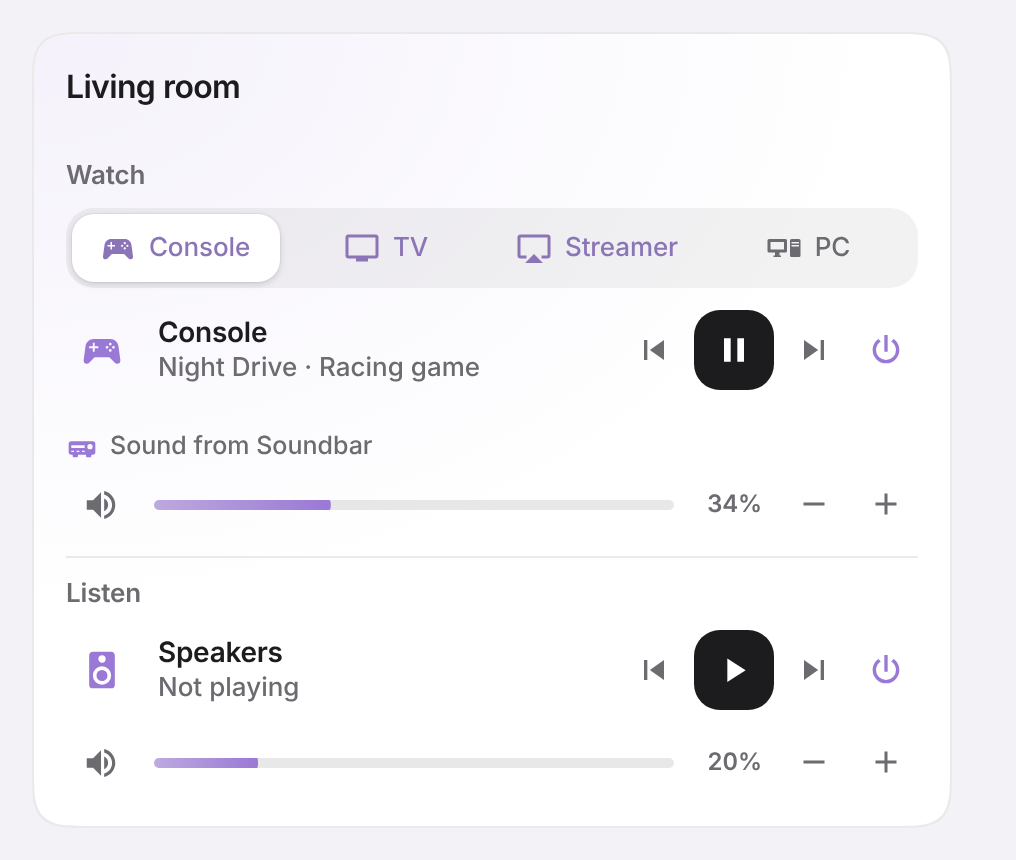
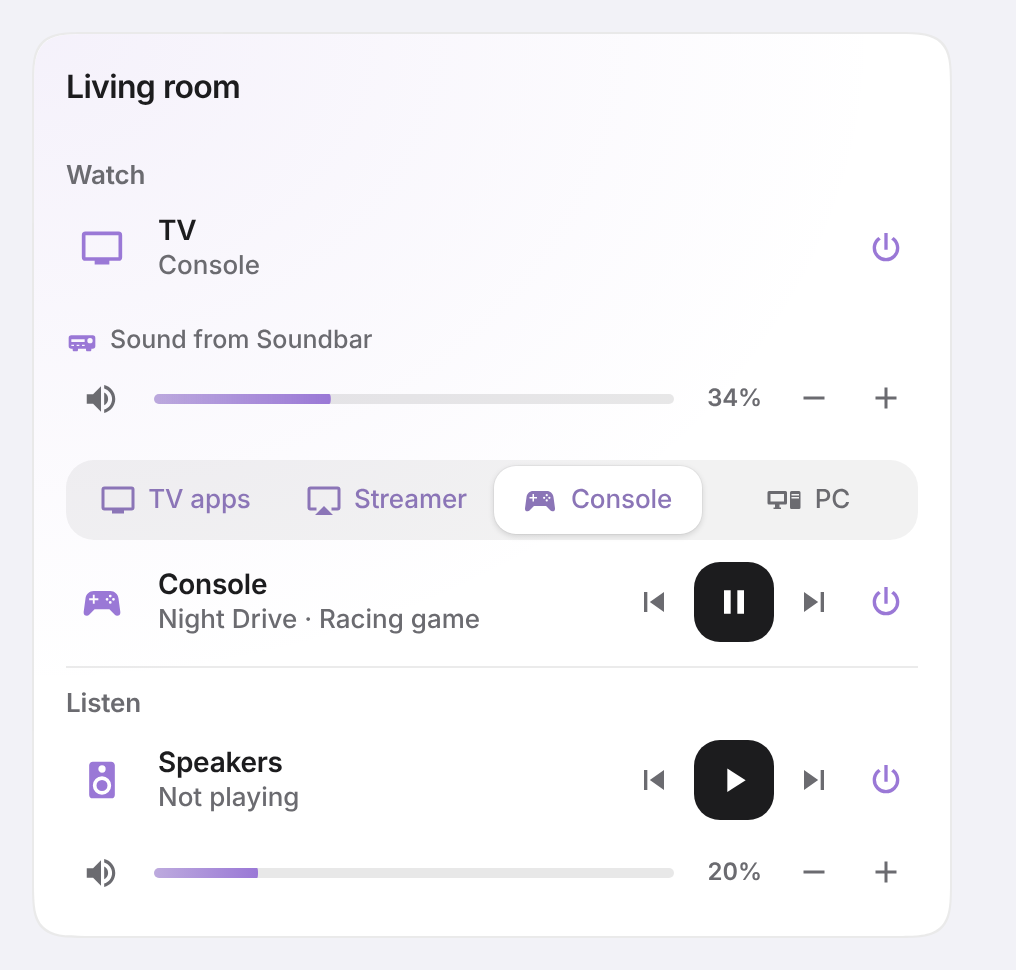
Media: the screen frames its inputs; inputs follow and switch the TV's input (0.20.2)
The TV's name, the input it is on and its power sit at the top with its sound and the one volume; the inputs follow (the TV itself as TV apps), then what the picked one plays. A source's input (HDMI 2) makes the picker follow the TV and picking it switches the TV. With screen named, everything else plays on it; a source's own output still wins.

diff --git a/dist/savvy-cards.js b/dist/savvy-cards.js
@@ -15177,6 +15177,11 @@ const STYLE = `${BASE_CSS}
   ha-card:is([data-glass], [data-matte]) .row { padding: 8px 10px; border-radius: 15px; background: color-mix(in oklab, var(--primary-text-color) 4%, transparent); }
   ha-card[data-glass] .row, ha-card[data-matte] .row { --lx: 28px; }
   .vol { display: flex; align-items: center; gap: 10px; margin-top: 8px; }
+  /* a screen with inputs: the screen (its power, its sound, the one volume) frames the inputs below it */
+  #videoBand[data-framed] #frame { order: 1; } #videoBand[data-framed] #nowVol { order: 2; }
+  #videoBand[data-framed] #sources { order: 3; margin-top: 6px; } #videoBand[data-framed] #nowRow { order: 4; }
+  #videoBand[data-framed] #videoCap { order: 0; }
+  #videoBand[data-framed] #nowVol .vol { margin-top: 4px; }
   .via { display: flex; align-items: center; gap: 6px; margin-top: 10px; font-size: 12.5px; line-height: 16px; font-weight: 550; color: var(--secondary-text-color); }
   .via ha-icon { --mdc-icon-size: 16px; display: flex; color: rgb(var(--accent)); }
   .via span { white-space: nowrap; overflow: hidden; text-overflow: ellipsis; }
@@ -15314,6 +15319,11 @@ class SavvyMediaCard extends SavvyCard {
         <div class="body">
           <div class="band" id="videoBand" hidden>
             <span class="cap" id="videoCap" hidden></span>
+            <div class="row frame" id="frame" hidden>
+              <span class="icon" id="frameIcon"><ha-icon></ha-icon></span>
+              <span class="meta"><span class="n" id="frameName"></span><span class="d" id="frameSub"></span></span>
+              <div class="transport" id="frameTransport"></div>
+            </div>
             <div class="segmented" id="sources" hidden><span class="sel"></span></div>
             <div class="row" id="nowRow">
               <span class="icon" id="nowIcon"></span>
@@ -15349,7 +15359,7 @@ class SavvyMediaCard extends SavvyCard {
     }
     const $ = (id) => root.getElementById(id);
     this._el = { card: root.querySelector("ha-card"), header: $("header"), title: $("title"), stage: $("stage"), art: $("art"), thumb: $("thumb"), nowGlyph: $("nowGlyph"),
-      stageT: $("stageT"), stageS: $("stageS"), progress: $("progress"), progressFill: $("progressFill"), videoBand: $("videoBand"), sources: $("sources"),
+      stageT: $("stageT"), stageS: $("stageS"), progress: $("progress"), progressFill: $("progressFill"), videoBand: $("videoBand"), sources: $("sources"), frame: $("frame"), frameIcon: $("frameIcon"), frameName: $("frameName"), frameSub: $("frameSub"), frameTransport: $("frameTransport"),
       nowRow: $("nowRow"), nowIcon: $("nowIcon"), nowName: $("nowName"), nowSub: $("nowSub"), nowTransport: $("nowTransport"), nowVol: $("nowVol"),
       audioBand: $("audioBand"), speakers: $("speakers"), videoCap: $("videoCap"), audioCap: $("audioCap"), alarmBand: $("alarmBand"), alarmIcon: $("alarmIcon"), alarmGlyph: $("alarmGlyph"),
       alarmMeta: $("alarmMeta"), alarmName: $("alarmName"), alarmSub: $("alarmSub"), alarmWhen: $("alarmWhen"), alarmToggle: $("alarmToggle"),
@@ -15679,12 +15689,14 @@ class SavvyMediaCard extends SavvyCard {
     el.videoBand.hidden = !c.video.length;
     if (!c.video.length) { this._active = null; return; }
     const live = c.video.filter((v) => ACTIVE.has(this._hass.states[v.entity]?.state));
-    const sig = live.map((v) => v.entity).join("|");
+    // the input the TV is on, when a source names it (input: HDMI 2): what is really on screen
+    const tuned = this._tuned();
+    const sig = [tuned?.entity || "", ...live.map((v) => v.entity)].join("|");
     if (this._liveSig === undefined) this._liveSig = sig;
     if (sig !== this._liveSig) { this._liveSig = sig; if (sig) this._picked = null; }
     const on = c.video.filter((v) => this._isOn(v));
     if (this._picked && !c.video.some((v) => v.entity === this._picked)) this._picked = null;
-    const auto = live[0] || on[0] || c.video[0];
+    const auto = tuned || live[0] || on[0] || c.video[0];
     const active = this._picked ? c.video.find((v) => v.entity === this._picked) : auto;
     const changed = this._active && this._active.entity !== active.entity;
     this._active = active;
@@ -15699,7 +15711,9 @@ class SavvyMediaCard extends SavvyCard {
           this._pressable(seg, { onTap: () => this._pick(v), onHold: () => moreInfo(this, v.entity), haptic: null }, 0.08);
         }
         attr(seg.querySelector("ha-icon"), "icon", this._playerIcon(v, st));
-        text(seg.querySelector("span"), v.name || shortName(this._hass, v.entity, c.area));
+        // under its frame the TV in the picker stands for its own apps
+        const framedTv = c.video.some((x) => x.entity !== v.entity && this._screenOf(x)?.entity === v.entity);
+        text(seg.querySelector("span"), v.name || (framedTv ? "TV apps" : shortName(this._hass, v.entity, c.area)));
         attr(seg, "data-sel", v === active);
         attr(seg, "data-live", this._isOn(v));
         attr(seg, "aria-pressed", v === active ? "true" : "false");
@@ -15723,7 +15737,44 @@ class SavvyMediaCard extends SavvyCard {
     if (this._active?.entity === v.entity) return moreInfo(this, v.entity);
     this._picked = v.entity;
     haptic("selection");
+    // an input with a name on the TV: switch the TV to it (waking the TV first when it is off)
+    const screen = this._screenOf(v);
+    if (v.input && screen && screen.entity !== v.entity) {
+      const go = () => this._call("media_player", "select_source", { source: v.input }, screen.entity);
+      if (!this._isOn(screen)) { this._togglePower(screen); setTimeout(go, 1500); } else go();
+    }
     this._update();
+  }
+
+  // The source whose `input` is the TV's current source, while the TV is on.
+  _tuned() {
+    const c = this._config;
+    for (const v of c.video) {
+      if (!v.input) continue;
+      const screen = this._screenOf(v);
+      const src = screen && this._isOn(screen) ? this._hass.states[screen.entity]?.attributes.source : null;
+      if (src != null && norm(src) === norm(v.input)) return v;
+    }
+    return null;
+  }
+
+  // The screen as a frame: its name, power and what it is on; the volume and sound line sit under it.
+  _frame(v) {
+    const el = this._el, c = this._config, screen = this._screenOf(v);
+    const framed = !this._compact && !!screen && c.video.some((x) => x.entity !== screen.entity && this._screenOf(x)?.entity === screen.entity);
+    attr(el.videoBand, "data-framed", framed);
+    el.frame.hidden = !framed;
+    if (!framed) return null;
+    const st = this._hass.states[screen.entity], on = this._isOn(screen);
+    attr(el.frameIcon, "data-live", on);
+    attr(el.frameIcon.querySelector("ha-icon"), "icon", this._playerIcon(screen, st));
+    if (!el.frameIcon.__wired) { el.frameIcon.__wired = true; this._pressable(el.frameIcon, { onTap: () => moreInfo(this, el.frameIcon.__entity), haptic: null }, 0.08); }
+    el.frameIcon.__entity = screen.entity;
+    text(el.frameName, screen.name || shortName(this._hass, screen.entity, c.area));
+    const tuned = this._tuned(), src = st?.attributes.source;
+    text(el.frameSub, !on ? "Off" : tuned ? (tuned.name || shortName(this._hass, tuned.entity, c.area)) : src || "On");
+    this._buildTransport(el.frameTransport, { ...screen, __powerOnly: true }, { power: true });
+    return screen;
   }
 
   _nowPlaying() {
@@ -15758,7 +15809,9 @@ class SavvyMediaCard extends SavvyCard {
       text(el.nowName, info.name || info.title);
       text(el.nowSub, this._rowSub(v, info));
     }
-    this._buildTransport(el.nowTransport, v, { power: true });
+    // under a frame the screen's power is in the frame: the TV's own apps row doesn't repeat it
+    const frame = this._compact ? null : this._frame(v);
+    this._buildTransport(el.nowTransport, v, { power: !(frame && frame.entity === v.entity) });
     const owner = this._volumeOwner(v);
     el.nowVol.hidden = !owner;
     if (owner) {
@@ -15806,10 +15859,14 @@ class SavvyMediaCard extends SavvyCard {
     const st = this._hass.states[cfg.entity];
     const on = this._isOn(cfg), playing = ACTIVE.has(st?.state);
     const want = [];
+    if (cfg.__powerOnly) {
+      if (cfg.power || has(st, F.TURN_ON) || has(st, F.TURN_OFF)) want.push({ key: "power", icon: "mdi:power", on, act: () => this._togglePower(cfg) });
+    } else {
     if (has(st, F.PREV)) want.push({ key: "prev", icon: "mdi:skip-previous", act: () => this._transport(cfg, "media_previous_track") });
     if (has(st, F.PAUSE) || has(st, F.PLAY)) want.push({ key: "play", solid, icon: playing ? "mdi:pause" : "mdi:play", act: () => this._transport(cfg, "media_play_pause") });
     if (has(st, F.NEXT)) want.push({ key: "next", icon: "mdi:skip-next", act: () => this._transport(cfg, "media_next_track") });
     if (power && (cfg.power || has(st, F.TURN_ON) || has(st, F.TURN_OFF))) want.push({ key: "power", icon: "mdi:power", on, act: () => this._togglePower(cfg) });
+    }
     for (const b of want) {
       const btn = this._rowOf(parent, b.key, "button", `tb${b.solid ? " solid" : ""}`, `<ha-icon></ha-icon>`);
       if (!btn.__wired) { btn.__wired = true; this._pressable(btn, { onTap: () => btn.__act(), haptic: null }, 0.08); }
@@ -16035,10 +16092,12 @@ class SavvyMediaCard extends SavvyCard {
   // sources. The screen owns the volume of everything watched on it (an Apple TV or a console has none).
   _screenOf(cfg) {
     const c = this._config, isTv = (v) => this._hass.states[v.entity]?.attributes.device_class === "tv";
-    if (cfg.screen) return c.video.find((v) => v.entity === cfg.screen) || { entity: cfg.screen };
-    // a TV is its own screen; anything else plays on the card's screen, else on the first TV
-    if (cfg.entity === c.screen || isTv(cfg)) return cfg;
-    if (c.screen) return c.video.find((v) => v.entity === c.screen) || { entity: c.screen };
+    const find = (id) => (id === cfg.entity ? cfg : c.video.find((v) => v.entity === id) || { entity: id });
+    if (cfg.screen) return find(cfg.screen);
+    // with the card's screen named, everything else plays on it, whatever it calls itself (an Apple TV can say "tv")
+    if (c.screen) return find(c.screen);
+    // otherwise a TV is its own screen, and anything else plays on the first TV
+    if (isTv(cfg)) return cfg;
     return c.video.find(isTv) || null;
   }
 
@@ -16062,6 +16121,11 @@ class SavvyMediaCard extends SavvyCard {
   _volumeOwner(cfg) {
     if (cfg.volume === false) return null;
     const screen = this._screenOf(cfg) || cfg;
+    // a source with a sound output of its own (a PC on its desk speakers) keeps it
+    if (cfg.entity !== screen.entity && cfg.output) {
+      const own = this._config.audio.find((a) => a.entity === cfg.output) || this._config.video.find((v) => v.entity === cfg.output);
+      return own ? { ...own } : { entity: cfg.output };
+    }
     const out = this._externalOut(screen);
     if (!out) return screen;
     const listed = this._config.audio.find((a) => a.entity === out);
@@ -16220,6 +16284,7 @@ const playerList = (name, label, helper) => ({ name, label, helper, type: "list"
     { type: "grid", name: "", schema: [{ name: "name", label: "Name", selector: { text: {} } }, { name: "icon", label: "Icon", selector: { icon: {} } }] },
     { name: "power", label: "Power switch", helper: "A switch that powers it, when the player can't turn itself on.", selector: { entity: { domain: ["switch", "input_boolean"] } } },
     { name: "screen", label: "Screen", helper: "The TV this source plays on, when the room has more than one.", selector: { entity: { domain: "media_player" } } },
+    { name: "input", label: "TV input", helper: "The TV's input this source is on, e.g. HDMI 2: the picker follows the TV, and picking it switches the TV.", selector: { text: {} } },
     { name: "output", label: "Sound output", helper: "For a screen: the soundbar it sends its sound to. Overrides the card's output.", selector: { entity: { domain: "media_player" } } },
     { name: "sound_select", label: "Sound output list", helper: "A select entity that switches where the TV's sound goes. An LG TV needs none: its outputs are found.", selector: { entity: { domain: ["select", "input_select"] } } },
     { name: "volume", label: "Volume helper", helper: "A helper that is the real volume, when the player's own isn't.", selector: { entity: { domain: ["input_number", "number"] } } },

diff --git a/src/cards/media.js b/src/cards/media.js
@@ -101,6 +101,11 @@ const STYLE = `${BASE_CSS}
   ha-card:is([data-glass], [data-matte]) .row { padding: 8px 10px; border-radius: 15px; background: color-mix(in oklab, var(--primary-text-color) 4%, transparent); }
   ha-card[data-glass] .row, ha-card[data-matte] .row { --lx: 28px; }
   .vol { display: flex; align-items: center; gap: 10px; margin-top: 8px; }
+  /* a screen with inputs: the screen (its power, its sound, the one volume) frames the inputs below it */
+  #videoBand[data-framed] #frame { order: 1; } #videoBand[data-framed] #nowVol { order: 2; }
+  #videoBand[data-framed] #sources { order: 3; margin-top: 6px; } #videoBand[data-framed] #nowRow { order: 4; }
+  #videoBand[data-framed] #videoCap { order: 0; }
+  #videoBand[data-framed] #nowVol .vol { margin-top: 4px; }
   .via { display: flex; align-items: center; gap: 6px; margin-top: 10px; font-size: 12.5px; line-height: 16px; font-weight: 550; color: var(--secondary-text-color); }
   .via ha-icon { --mdc-icon-size: 16px; display: flex; color: rgb(var(--accent)); }
   .via span { white-space: nowrap; overflow: hidden; text-overflow: ellipsis; }
@@ -238,6 +243,11 @@ class SavvyMediaCard extends SavvyCard {
         <div class="body">
           <div class="band" id="videoBand" hidden>
             <span class="cap" id="videoCap" hidden></span>
+            <div class="row frame" id="frame" hidden>
+              <span class="icon" id="frameIcon"><ha-icon></ha-icon></span>
+              <span class="meta"><span class="n" id="frameName"></span><span class="d" id="frameSub"></span></span>
+              <div class="transport" id="frameTransport"></div>
+            </div>
             <div class="segmented" id="sources" hidden><span class="sel"></span></div>
             <div class="row" id="nowRow">
               <span class="icon" id="nowIcon"></span>
@@ -273,7 +283,7 @@ class SavvyMediaCard extends SavvyCard {
     }
     const $ = (id) => root.getElementById(id);
     this._el = { card: root.querySelector("ha-card"), header: $("header"), title: $("title"), stage: $("stage"), art: $("art"), thumb: $("thumb"), nowGlyph: $("nowGlyph"),
-      stageT: $("stageT"), stageS: $("stageS"), progress: $("progress"), progressFill: $("progressFill"), videoBand: $("videoBand"), sources: $("sources"),
+      stageT: $("stageT"), stageS: $("stageS"), progress: $("progress"), progressFill: $("progressFill"), videoBand: $("videoBand"), sources: $("sources"), frame: $("frame"), frameIcon: $("frameIcon"), frameName: $("frameName"), frameSub: $("frameSub"), frameTransport: $("frameTransport"),
       nowRow: $("nowRow"), nowIcon: $("nowIcon"), nowName: $("nowName"), nowSub: $("nowSub"), nowTransport: $("nowTransport"), nowVol: $("nowVol"),
       audioBand: $("audioBand"), speakers: $("speakers"), videoCap: $("videoCap"), audioCap: $("audioCap"), alarmBand: $("alarmBand"), alarmIcon: $("alarmIcon"), alarmGlyph: $("alarmGlyph"),
       alarmMeta: $("alarmMeta"), alarmName: $("alarmName"), alarmSub: $("alarmSub"), alarmWhen: $("alarmWhen"), alarmToggle: $("alarmToggle"),
@@ -603,12 +613,14 @@ class SavvyMediaCard extends SavvyCard {
     el.videoBand.hidden = !c.video.length;
     if (!c.video.length) { this._active = null; return; }
     const live = c.video.filter((v) => ACTIVE.has(this._hass.states[v.entity]?.state));
-    const sig = live.map((v) => v.entity).join("|");
+    // the input the TV is on, when a source names it (input: HDMI 2): what is really on screen
+    const tuned = this._tuned();
+    const sig = [tuned?.entity || "", ...live.map((v) => v.entity)].join("|");
     if (this._liveSig === undefined) this._liveSig = sig;
     if (sig !== this._liveSig) { this._liveSig = sig; if (sig) this._picked = null; }
     const on = c.video.filter((v) => this._isOn(v));
     if (this._picked && !c.video.some((v) => v.entity === this._picked)) this._picked = null;
-    const auto = live[0] || on[0] || c.video[0];
+    const auto = tuned || live[0] || on[0] || c.video[0];
     const active = this._picked ? c.video.find((v) => v.entity === this._picked) : auto;
     const changed = this._active && this._active.entity !== active.entity;
     this._active = active;
@@ -623,7 +635,9 @@ class SavvyMediaCard extends SavvyCard {
           this._pressable(seg, { onTap: () => this._pick(v), onHold: () => moreInfo(this, v.entity), haptic: null }, 0.08);
         }
         attr(seg.querySelector("ha-icon"), "icon", this._playerIcon(v, st));
-        text(seg.querySelector("span"), v.name || shortName(this._hass, v.entity, c.area));
+        // under its frame the TV in the picker stands for its own apps
+        const framedTv = c.video.some((x) => x.entity !== v.entity && this._screenOf(x)?.entity === v.entity);
+        text(seg.querySelector("span"), v.name || (framedTv ? "TV apps" : shortName(this._hass, v.entity, c.area)));
         attr(seg, "data-sel", v === active);
         attr(seg, "data-live", this._isOn(v));
         attr(seg, "aria-pressed", v === active ? "true" : "false");
@@ -647,7 +661,44 @@ class SavvyMediaCard extends SavvyCard {
     if (this._active?.entity === v.entity) return moreInfo(this, v.entity);
     this._picked = v.entity;
     haptic("selection");
+    // an input with a name on the TV: switch the TV to it (waking the TV first when it is off)
+    const screen = this._screenOf(v);
+    if (v.input && screen && screen.entity !== v.entity) {
+      const go = () => this._call("media_player", "select_source", { source: v.input }, screen.entity);
+      if (!this._isOn(screen)) { this._togglePower(screen); setTimeout(go, 1500); } else go();
+    }
     this._update();
+  }
+
+  // The source whose `input` is the TV's current source, while the TV is on.
+  _tuned() {
+    const c = this._config;
+    for (const v of c.video) {
+      if (!v.input) continue;
+      const screen = this._screenOf(v);
+      const src = screen && this._isOn(screen) ? this._hass.states[screen.entity]?.attributes.source : null;
+      if (src != null && norm(src) === norm(v.input)) return v;
+    }
+    return null;
+  }
+
+  // The screen as a frame: its name, power and what it is on; the volume and sound line sit under it.
+  _frame(v) {
+    const el = this._el, c = this._config, screen = this._screenOf(v);
+    const framed = !this._compact && !!screen && c.video.some((x) => x.entity !== screen.entity && this._screenOf(x)?.entity === screen.entity);
+    attr(el.videoBand, "data-framed", framed);
+    el.frame.hidden = !framed;
+    if (!framed) return null;
+    const st = this._hass.states[screen.entity], on = this._isOn(screen);
+    attr(el.frameIcon, "data-live", on);
+    attr(el.frameIcon.querySelector("ha-icon"), "icon", this._playerIcon(screen, st));
+    if (!el.frameIcon.__wired) { el.frameIcon.__wired = true; this._pressable(el.frameIcon, { onTap: () => moreInfo(this, el.frameIcon.__entity), haptic: null }, 0.08); }
+    el.frameIcon.__entity = screen.entity;
+    text(el.frameName, screen.name || shortName(this._hass, screen.entity, c.area));
+    const tuned = this._tuned(), src = st?.attributes.source;
+    text(el.frameSub, !on ? "Off" : tuned ? (tuned.name || shortName(this._hass, tuned.entity, c.area)) : src || "On");
+    this._buildTransport(el.frameTransport, { ...screen, __powerOnly: true }, { power: true });
+    return screen;
   }
 
   _nowPlaying() {
@@ -682,7 +733,9 @@ class SavvyMediaCard extends SavvyCard {
       text(el.nowName, info.name || info.title);
       text(el.nowSub, this._rowSub(v, info));
     }
-    this._buildTransport(el.nowTransport, v, { power: true });
+    // under a frame the screen's power is in the frame: the TV's own apps row doesn't repeat it
+    const frame = this._compact ? null : this._frame(v);
+    this._buildTransport(el.nowTransport, v, { power: !(frame && frame.entity === v.entity) });
     const owner = this._volumeOwner(v);
     el.nowVol.hidden = !owner;
     if (owner) {
@@ -730,10 +783,14 @@ class SavvyMediaCard extends SavvyCard {
     const st = this._hass.states[cfg.entity];
     const on = this._isOn(cfg), playing = ACTIVE.has(st?.state);
     const want = [];
+    if (cfg.__powerOnly) {
+      if (cfg.power || has(st, F.TURN_ON) || has(st, F.TURN_OFF)) want.push({ key: "power", icon: "mdi:power", on, act: () => this._togglePower(cfg) });
+    } else {
     if (has(st, F.PREV)) want.push({ key: "prev", icon: "mdi:skip-previous", act: () => this._transport(cfg, "media_previous_track") });
     if (has(st, F.PAUSE) || has(st, F.PLAY)) want.push({ key: "play", solid, icon: playing ? "mdi:pause" : "mdi:play", act: () => this._transport(cfg, "media_play_pause") });
     if (has(st, F.NEXT)) want.push({ key: "next", icon: "mdi:skip-next", act: () => this._transport(cfg, "media_next_track") });
     if (power && (cfg.power || has(st, F.TURN_ON) || has(st, F.TURN_OFF))) want.push({ key: "power", icon: "mdi:power", on, act: () => this._togglePower(cfg) });
+    }
     for (const b of want) {
       const btn = this._rowOf(parent, b.key, "button", `tb${b.solid ? " solid" : ""}`, `<ha-icon></ha-icon>`);
       if (!btn.__wired) { btn.__wired = true; this._pressable(btn, { onTap: () => btn.__act(), haptic: null }, 0.08); }
@@ -959,10 +1016,12 @@ class SavvyMediaCard extends SavvyCard {
   // sources. The screen owns the volume of everything watched on it (an Apple TV or a console has none).
   _screenOf(cfg) {
     const c = this._config, isTv = (v) => this._hass.states[v.entity]?.attributes.device_class === "tv";
-    if (cfg.screen) return c.video.find((v) => v.entity === cfg.screen) || { entity: cfg.screen };
-    // a TV is its own screen; anything else plays on the card's screen, else on the first TV
-    if (cfg.entity === c.screen || isTv(cfg)) return cfg;
-    if (c.screen) return c.video.find((v) => v.entity === c.screen) || { entity: c.screen };
+    const find = (id) => (id === cfg.entity ? cfg : c.video.find((v) => v.entity === id) || { entity: id });
+    if (cfg.screen) return find(cfg.screen);
+    // with the card's screen named, everything else plays on it, whatever it calls itself (an Apple TV can say "tv")
+    if (c.screen) return find(c.screen);
+    // otherwise a TV is its own screen, and anything else plays on the first TV
+    if (isTv(cfg)) return cfg;
     return c.video.find(isTv) || null;
   }
 
@@ -986,6 +1045,11 @@ class SavvyMediaCard extends SavvyCard {
   _volumeOwner(cfg) {
     if (cfg.volume === false) return null;
     const screen = this._screenOf(cfg) || cfg;
+    // a source with a sound output of its own (a PC on its desk speakers) keeps it
+    if (cfg.entity !== screen.entity && cfg.output) {
+      const own = this._config.audio.find((a) => a.entity === cfg.output) || this._config.video.find((v) => v.entity === cfg.output);
+      return own ? { ...own } : { entity: cfg.output };
+    }
     const out = this._externalOut(screen);
     if (!out) return screen;
     const listed = this._config.audio.find((a) => a.entity === out);
@@ -1144,6 +1208,7 @@ const playerList = (name, label, helper) => ({ name, label, helper, type: "list"
     { type: "grid", name: "", schema: [{ name: "name", label: "Name", selector: { text: {} } }, { name: "icon", label: "Icon", selector: { icon: {} } }] },
     { name: "power", label: "Power switch", helper: "A switch that powers it, when the player can't turn itself on.", selector: { entity: { domain: ["switch", "input_boolean"] } } },
     { name: "screen", label: "Screen", helper: "The TV this source plays on, when the room has more than one.", selector: { entity: { domain: "media_player" } } },
+    { name: "input", label: "TV input", helper: "The TV's input this source is on, e.g. HDMI 2: the picker follows the TV, and picking it switches the TV.", selector: { text: {} } },
     { name: "output", label: "Sound output", helper: "For a screen: the soundbar it sends its sound to. Overrides the card's output.", selector: { entity: { domain: "media_player" } } },
     { name: "sound_select", label: "Sound output list", helper: "A select entity that switches where the TV's sound goes. An LG TV needs none: its outputs are found.", selector: { entity: { domain: ["select", "input_select"] } } },
     { name: "volume", label: "Volume helper", helper: "A helper that is the real volume, when the player's own isn't.", selector: { entity: { domain: ["input_number", "number"] } } },

diff --git a/README.md b/README.md
@@ -663,6 +663,11 @@ so one box never shows two bars; with the TV off it is back in Listen, for music
 guessed: without `video_output` the TV plays through itself. Speakers sit under the screen, each with its own
 volume, and two or more get a picker. With both kinds on the card, the bands are captioned Watch and Listen.
 
+With inputs, the screen frames them: the TV's name, the input it is on and its power at the top, its sound
+and the one volume under it, then the inputs (the TV itself as "TV apps") and what the picked one is playing.
+Give each input its `input` (`HDMI 2`) and the picker follows the TV, even when you switch with the remote,
+and picking an input switches the TV to it.
+
 <picture><source media="(prefers-color-scheme: light)" srcset="docs/images/media-light.png"><img src="docs/images/media-dark.png" width="460" alt="Savvy media card with artwork"></picture>
 
 **Switch where the TV's sound goes.** An LG TV (the webOS integration) shows its sound output under it as a
@@ -680,7 +685,7 @@ presets, text to speech and an alarm clock. Volume moves only on a sideways drag
 | `area` | area | **required** (or `video` / `audio`) | Speakers and receivers become outputs; TVs and the rest become sources. |
 | `name` | string | the area's | Title. |
 | `layout` | `full` or `compact` | `full` | `compact`: one row with what is playing, its transport and the volume. |
-| `video` | list | found | The video sources in the picker (TVs, consoles, streamers, PCs): `{ entity, name, icon, power, screen, output, volume, artwork, sound_select, sound_outputs }`. `power`: a switch that turns it on. `screen`: the TV it plays on, in a room with two. `output`: on a screen, the soundbar it sends its sound to; it wins over `video_output`. `volume`: a helper that holds its real volume. `artwork`: a binary sensor that says its artwork is worth showing. `sound_select`: a select entity that switches where its sound goes (an LG TV needs none, see below). `sound_outputs`: the LG outputs to list, or `false` for none. |
+| `video` | list | found | The video sources in the picker (TVs, consoles, streamers, PCs): `{ entity, name, icon, power, screen, input, output, volume, artwork, sound_select, sound_outputs }`. `power`: a switch that turns it on. `screen`: the TV it plays on, in a room with two. `input`: the TV's input it is on (`HDMI 2`): the picker follows what is really on screen, and picking it switches the TV. `output`: on a screen, the soundbar it sends its sound to; it wins over `video_output`. `volume`: a helper that holds its real volume. `artwork`: a binary sensor that says its artwork is worth showing. `sound_select`: a select entity that switches where its sound goes (an LG TV needs none, see below). `sound_outputs`: the LG outputs to list, or `false` for none. |
 | `audio` | list | found | The speakers, under the sources with their own transport and volume; two or more get a picker. Same item format as `video`. |
 | `screen` | entity | the first TV among `video` | The TV the video sources play on. It owns their volume. Every TV is its own screen; any other source plays on this one unless its own `screen` says otherwise (a room with two TVs). |
 | `video_output` | entity | none | The soundbar or receiver the main screen sends its sound to (eARC). While it does (an LG says so; another TV while the soundbar is on, and the soundbar is on its TV input), the bar is the soundbar's, and the soundbar leaves Listen. The soundbar playing something of its own (Spotify, Bluetooth) is not the TV's sound: it stays in Listen. A second TV uses only its own `output`. Empty: the TV plays through itself. |
@@ -716,9 +721,11 @@ video:
     name: TV
     power: switch.tv_plug
   - entity: media_player.console
+    input: HDMI 2                      # the TV's input it is on: the picker follows the TV, and switches it
     artwork: binary_sensor.console_online
   - entity: media_player.pc
     name: PC
+    input: HDMI 3
     output: media_player.speakers      # this one plays through the speakers, not the soundbar
 audio:
   - entity: media_player.soundbar

diff --git a/CHANGELOG.md b/CHANGELOG.md
@@ -15,6 +15,10 @@
   (Spotify, Bluetooth: its source isn't the TV) is never the TV's sound: it stays in Listen with its own bar
   (`output_source` names its TV input when it has another name). With two TVs each is its own screen, and a
   source with no `screen` of its own plays on the first.
+- **Media: the screen frames its inputs.** The TV's name, the input it is on and its power sit at the top with
+  its sound and the one volume; the inputs follow (the TV itself as "TV apps"), then what the picked one plays.
+  A source's `input` (`HDMI 2`) makes the picker follow the TV, even when switched with the remote, and picking
+  it switches the TV. With `screen` named, everything else plays on it, whatever it calls itself.
 - **Grid heights:** in a sections view every card is a whole number of grid rows tall (56px rows, 8px between),
   so cards side by side end together instead of a few pixels apart. Cards given a number of rows keep it;
   `grid_snap: false` turns it off.
